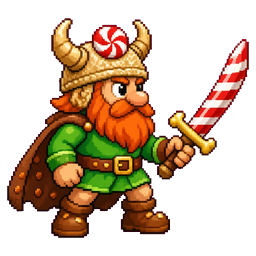
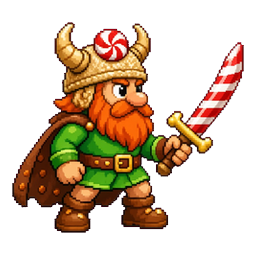
B opt8b: wire Render A anim sheets into Corridor Slash
Player idle/walk/attack sheets + blob walk + hitdeath (flash/death/poof);
keep opt8 juice and camera double-restore. Local only — Dev A sole-push.

Changed region(s): [[0.0, 0.0625, 1.0, 0.9375]]

diff --git a/game-options/phone-roam-combat/b/game.js b/game-options/phone-roam-combat/b/game.js
@@ -1,21 +1,44 @@
+(function () {
+  "use strict";
+
+  const canvas = document.getElementById("c");
+  const ctx = canvas.getContext("2d");
+
+  // Illustrated sprites (Render A sheets) — prefer sheet cells; stamp fallbacks
   function loadImg(src) {
-    var im = new Image();
+    const im = new Image();
     im.ok = false;
     im.onload = function () { im.ok = true; };
     im.onerror = function () { im.ok = false; };
     im.src = src;
     return im;
   }
-  var heroImg = loadImg('./art/player.png?v=opt8');
-  var heroImg2 = loadImg('./art/player_f2.png?v=opt8');
-  var blobImg = loadImg('./art/enemy_blob.png?v=opt8');
-  var blobAlt = loadImg('./art/enemy_blob_alt.png?v=opt8');
+  const CACHE = '?v=opt8b';
+  const heroImg = loadImg('./art/player.png' + CACHE);
+  const heroImg2 = loadImg('./art/player_f2.png' + CACHE);
+  const heroIdleSheet = loadImg('./art/player_idle_sheet.png' + CACHE);
+  const heroWalkSheet = loadImg('./art/player_walk_sheet.png' + CACHE);
+  const heroAttackSheet = loadImg('./art/player_attack_sheet.png' + CACHE);
+  const blobImg = loadImg('./art/enemy_blob.png' + CACHE);
+  const blobAlt = loadImg('./art/enemy_blob_alt.png' + CACHE);
+  const blobSheet = loadImg('./art/enemy_blob_sheet.png' + CACHE);
+  const blobAltSheet = loadImg('./art/enemy_blob_alt_sheet.png' + CACHE);
+  const blobHitDeath = loadImg('./art/enemy_blob_hitdeath_sheet.png' + CACHE);
+  const blobAltHitDeath = loadImg('./art/enemy_blob_alt_hitdeath_sheet.png' + CACHE);
 
-(function () {
-  "use strict";
+  const CELL = 256;
+  const FPS_IDLE = 6;
+  const FPS_WALK = 10;
+  const FPS_ATTACK = 12;
+  const MOVE_THRESH = 35;
 
-  const canvas = document.getElementById("c");
-  const ctx = canvas.getContext("2d");
+  function drawFrame(img, frameIndex, dx, dy, dw, dh) {
+    if (!img || !img.ok || !img.width) return false;
+    const n = Math.max(1, (img.width / CELL) | 0);
+    const f = ((frameIndex % n) + n) % n;
+    ctx.drawImage(img, f * CELL, 0, CELL, CELL, dx, dy, dw, dh);
+    return true;
+  }
   const hudScore = document.getElementById("hudScore");
   const hudCombo = document.getElementById("hudCombo");
   const hudHp = document.getElementById("hudHp");
@@ -152,6 +175,9 @@
       slashCd: 0,
       gunCd: 0,
       anim: 0,
+      animT: 0,
+      animFrame: 0,
+      attackT: -1, // >=0 playing attack sheet once
       landDust: false,
       wasOnGround: true,
       windFlash: 0,
@@ -236,6 +262,8 @@
       onGround: true,
       dying: 0, // >0 = death poof/flatten in progress
       dead: false,
+      animT: Math.random() * 4,
+      animFrame: 0,
     });
   }
 
@@ -643,7 +671,6 @@
       p.vx += ax * accel * DT;
       p.facing = ax > 0 ? 1 : -1;
       // Walk anim ONLY while |vx| meaningful
-      if (Math.abs(p.vx) > 35) p.anim += DT * 12;
     } else {
       p.vx *= friction;
       if (Math.abs(p.vx) < 12) p.vx = 0;
@@ -746,6 +773,7 @@
         trailed: false,
         impactFlash: false,
       };
+      p.attackT = 0; // play attack sheet once
     }
     if (state.slash) {
       const ph = slashPhase(state.slash);
@@ -782,6 +810,28 @@
         r: 4,
       });
       muzzlePuff(mx, my, p.facing);
+      if (p.attackT < 0) p.attackT = 0; // brief attack pose on gun
+    }
+
+    // --- sprite anim (sheets): attack once → idle/walk; walk only while moving ---
+    {
+      const moving = Math.abs(p.vx) > MOVE_THRESH && p.onGround;
+      if (p.attackT >= 0) {
+        p.attackT += DT;
+        const nFrames = 4;
+        p.animFrame = Math.min(nFrames - 1, (p.attackT * FPS_ATTACK) | 0);
+        if (p.attackT >= nFrames / FPS_ATTACK) {
+          p.attackT = -1;
+          p.animT = 0;
+        }
+      } else if (moving) {
+        p.animT += DT;
+        p.animFrame = ((p.animT * FPS_WALK) | 0) % 4;
+        p.anim += DT * 12;
+      } else {
+        p.animT += DT;
+        p.animFrame = ((p.animT * FPS_IDLE) | 0) % 4;
+      }
     }
 
     // bullets
@@ -826,6 +876,12 @@
       if (e.hurtCd > 0) e.hurtCd -= DT;
       if (e.stun > 0) e.stun -= DT;
       if (e.hitFlash > 0) e.hitFlash -= DT;
+      e.animT += DT;
+      {
+        const emoving = Math.abs(e.vx) > 20 && e.onGround;
+        if (emoving) e.animFrame = ((e.animT * FPS_WALK) | 0) % 4;
+        else e.animFrame = ((e.animT * FPS_IDLE) | 0) % 4;
+      }
       e.scale += (1 - e.scale) * 0.18;
       e.sx += (1 - e.sx) * 0.18;
       e.sy += (1 - e.sy) * 0.18;
@@ -1049,31 +1105,46 @@
     }
     ctx.globalAlpha = 1;
 
-    // enemies
+    // enemies — sheet cells (idle/walk); hitdeath flash + death→poof
     for (const e of state.enemies) {
       const ey = floorY - e.y;
       const face = e.x < (state.player ? state.player.x : e.x) ? 1 : -1;
       const scx = e.sx * e.scale;
       const scy = e.sy * e.scale;
+      const isAlt = e.kind === "brute";
+      const sheet = isAlt ? blobAltSheet : blobSheet;
+      const hd = isAlt ? blobAltHitDeath : blobHitDeath;
+      const stamp = isAlt ? blobAlt : blobImg;
       ctx.save();
       ctx.translate(e.x, ey);
       ctx.scale(face * scx, scy);
       if (e.dying > 0) {
-        ctx.globalAlpha = Math.max(0, e.dying / 0.28);
+        ctx.globalAlpha = Math.max(0.15, e.dying / 0.28);
       }
-      const bimg = (e.kind === "brute" || (e.id | 0) % 2) ? blobAlt : blobImg;
-      if (bimg.ok) {
-        const s = Math.max(e.w, e.h) * 1.55;
+      const s = Math.max(e.w, e.h) * 1.55;
+      const dx = -s / 2;
+      const dy = -s * 0.95;
+      let drew = false;
+      if (e.dying > 0 && hd.ok) {
+        // hitdeath: idle, hit flash, death×3, poof — drive 2..5 from dying timer
+        const t = 1 - Math.max(0, e.dying) / 0.28;
+        const frame = 2 + Math.min(3, (t * 4) | 0);
+        drew = drawFrame(hd, frame, dx, dy, s, s);
+      } else if (e.hitFlash > 0 && hd.ok) {
+        drew = drawFrame(hd, 1, dx, dy, s, s);
+      } else if (sheet.ok) {
+        drew = drawFrame(sheet, e.animFrame | 0, dx, dy, s, s);
+      }
+      if (!drew && stamp.ok) {
         if (e.hitFlash > 0) {
           ctx.globalAlpha = (e.dying > 0 ? Math.max(0, e.dying / 0.28) : 1) * 0.95;
-          // white flash tint via brighter redraw
-          ctx.drawImage(bimg, -s / 2, -s * 0.95, s, s);
+          ctx.drawImage(stamp, dx, dy, s, s);
           ctx.globalCompositeOperation = "source-atop";
           ctx.fillStyle = "rgba(255,255,255,0.55)";
-          ctx.fillRect(-s / 2, -s * 0.95, s, s);
+          ctx.fillRect(dx, dy, s, s);
           ctx.globalCompositeOperation = "source-over";
         } else {
-          ctx.drawImage(bimg, -s / 2, -s * 0.95, s, s);
+          ctx.drawImage(stamp, dx, dy, s, s);
         }
       }
       ctx.globalAlpha = 1;
@@ -1163,15 +1234,22 @@
         ctx.shadowBlur = 12;
       }
       {
-        // Walk anim ONLY while moving; clean idle (no skate)
-        const moving = Math.abs(p.vx) > 35 && p.onGround;
-        const himg =
-          moving && heroImg2.ok && (((p.anim * 0.5) | 0) % 2)
-            ? heroImg2
-            : heroImg;
-        if (himg.ok) {
-          const s = Math.max(p.w, p.h) * 2.2;
-          ctx.drawImage(himg, -s * 0.42, -s * 0.98, s, s);
+        // Sheets: attack once → idle loop / walk loop (walk ONLY while moving)
+        const s = Math.max(p.w, p.h) * 2.2;
+        const dx = -s * 0.42;
+        const dy = -s * 0.98;
+        const moving = Math.abs(p.vx) > MOVE_THRESH && p.onGround;
+        let sheet = null;
+        if (p.attackT >= 0 && heroAttackSheet.ok) sheet = heroAttackSheet;
+        else if (moving && heroWalkSheet.ok) sheet = heroWalkSheet;
+        else if (heroIdleSheet.ok) sheet = heroIdleSheet;
+        let drew = sheet ? drawFrame(sheet, p.animFrame | 0, dx, dy, s, s) : false;
+        if (!drew) {
+          const himg =
+            moving && heroImg2.ok && (((p.anim * 0.5) | 0) % 2)
+              ? heroImg2
+              : heroImg;
+          if (himg.ok) ctx.drawImage(himg, dx, dy, s, s);
         }
       }
       ctx.shadowBlur = 0;

diff --git a/game-options/phone-roam-combat/b/index.html b/game-options/phone-roam-combat/b/index.html
@@ -70,6 +70,6 @@ canvas{background:#e9d5ff}
     </div>
   </div>
 </div>
-<script src="game.js?v=opt8"></script>
+<script src="game.js?v=opt8b"></script>
 </body>
 </html>

diff --git a/game-options/phone-roam-combat/ANIM_SHEETS.md b/game-options/phone-roam-combat/ANIM_SHEETS.md
@@ -1,0 +1,53 @@
+# Animation sheets — phone-roam A/B/C (Render A → Dev A)
+
+Jesus: playables must animate with **frame sheets**, not slide-translate of one stamp.
+
+## Layout (all sheets)
+- Horizontal strip, **cell 256×256**, RGBA transparent
+- Frames left → right, 0-indexed
+- Suggested FPS: idle **6**, walk **10**, attack **12** (play once then idle)
+
+## Files per option
+
+### Players (`{a,b,c}/art/`)
+| File | Frames | Use |
+|------|--------|-----|
+| `player_idle_sheet.png` | 4 | loop while stopped |
+| `player_walk_sheet.png` | 4 | loop while moving |
+| `player_attack_sheet.png` | 4 | play once on fire/slash/dash |
+| `player.png` | 1 | fallback = idle[0] |
+| `player_f2.png` | 1 | fallback walk frame |
+
+### Enemies
+| Opt | Files |
+|-----|-------|
+| A | `enemy_tri_sheet.png`, `enemy_pod_sheet.png`, `enemy_rock_sheet.png` (4 each) |
+| B | `enemy_blob_sheet.png`, `enemy_blob_alt_sheet.png` (4 each) |
+| C | `guard_sheet.png`, `guard_idle_sheet.png`, `guard_walk_sheet.png` |
+
+## Wire hint
+```js
+const cell = 256;
+function drawFrame(img, frameIndex, dx, dy, scale) {
+  const n = img.width / cell;
+  const f = ((frameIndex % n) + n) % n;
+  ctx.drawImage(img, f*cell, 0, cell, cell, dx, dy, cell*scale, cell*scale);
+}
+```
+Advance frame on timer; attack resets to idle on end.
+
+## Note
+Sheets preserve locked identity (A = opt7-passed human). Procedural limb/bob/shear for clear motion until painted keyframes replace them. Sole-push `?v=opt8` (or next).
+
+
+## Deepen-pass extras (opt8)
+Discrete frames also exported:
+- `player_idle.png` + `player_idle_f2..f4.png`
+- `player_walk.png` + `player_walk_f2..f4.png`
+- `player_attack.png` + `player_attack_f2..f4.png`
+
+Enemy juice:
+- A/B: `enemy_*_hitdeath_sheet.png` — 6 frames: idle, hit flash, death×3, poof
+- C: `guard_hitdeath_sheet.png` — same
+
+Prefer sheets for playback; discrete `*_fN` if easier to wire.
